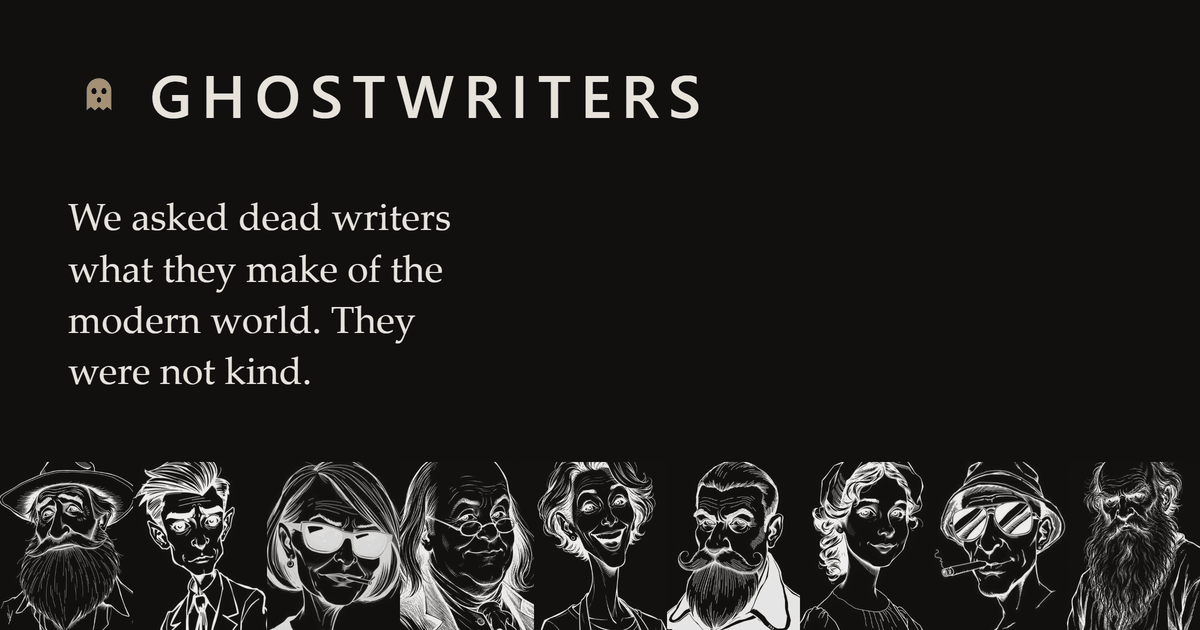
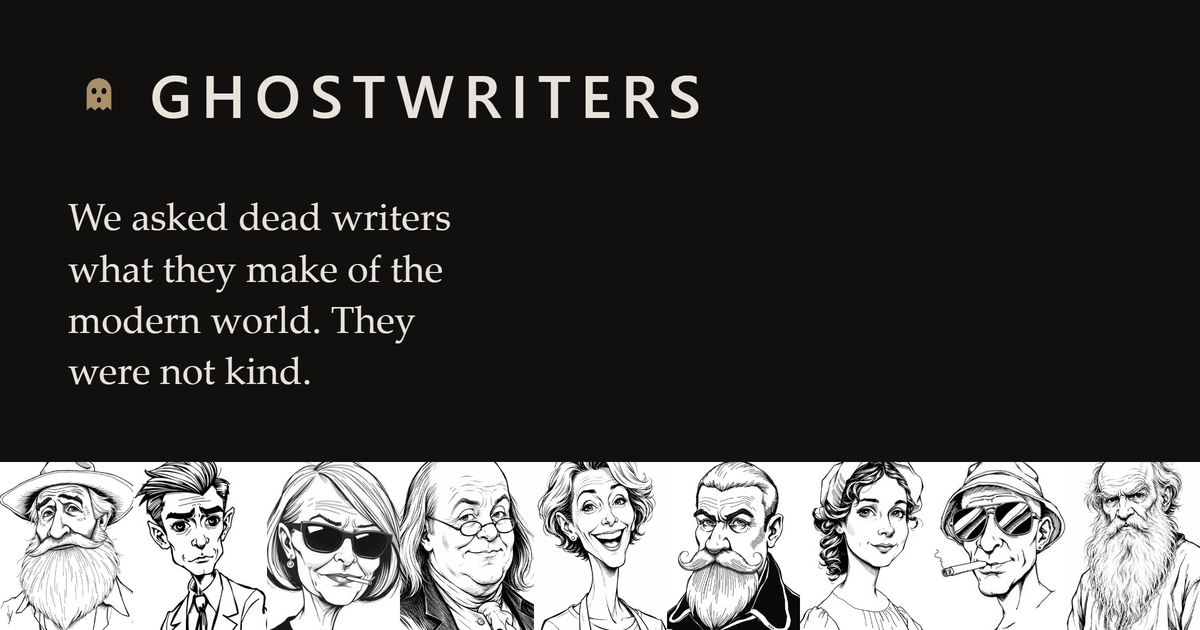
The share card's portraits were inverted
They read as negatives - white lines on black - and the faces are black ink on white
everywhere else on the site. Inverting the artwork a card exists to advertise is the
one thing it must not do. Left as drawn, the strip is a white band of faces across the
foot of the dark card.

Changed region(s): [[0.0, 0.7238, 1.0, 1.0]]

diff --git a/tools/make_og.py b/tools/make_og.py
@@ -70,12 +70,12 @@ p {{ font-size: 38px; line-height: 1.35; max-width: 21ch; color: #E8E3DA; }}
 .strip {{ display: flex; gap: 0; margin: 0 -68px; }}
 /* Bled to the edges and cropped to the top two-thirds of each portrait: at this size
    the faces are the recognisable part and the collars are not. */
-/* invert() alone leaves each tile on pure black, which is a visible tonal step
-   against the card's warm ground. screen() maps that black back onto the ground and
-   leaves the white lines white, so the strip sits IN the card rather than on it. */
+/* NOT inverted. The portraits are black ink on white everywhere else on the site -
+   inverting them here made the writers appear as negatives, which is the one thing a
+   share card must not do to the artwork it is advertising. Left as drawn, the strip
+   reads as a white band of faces across the foot of the dark card. */
 .strip img {{ width: 133.4px; height: 168px; object-fit: cover;
-  object-position: 50% 22%; filter: invert(1); mix-blend-mode: screen;
-  opacity: .93; }}
+  object-position: 50% 22%; }}
 </style></head><body>
   <div class="mark">
     <svg viewBox="0 0 100 100">
